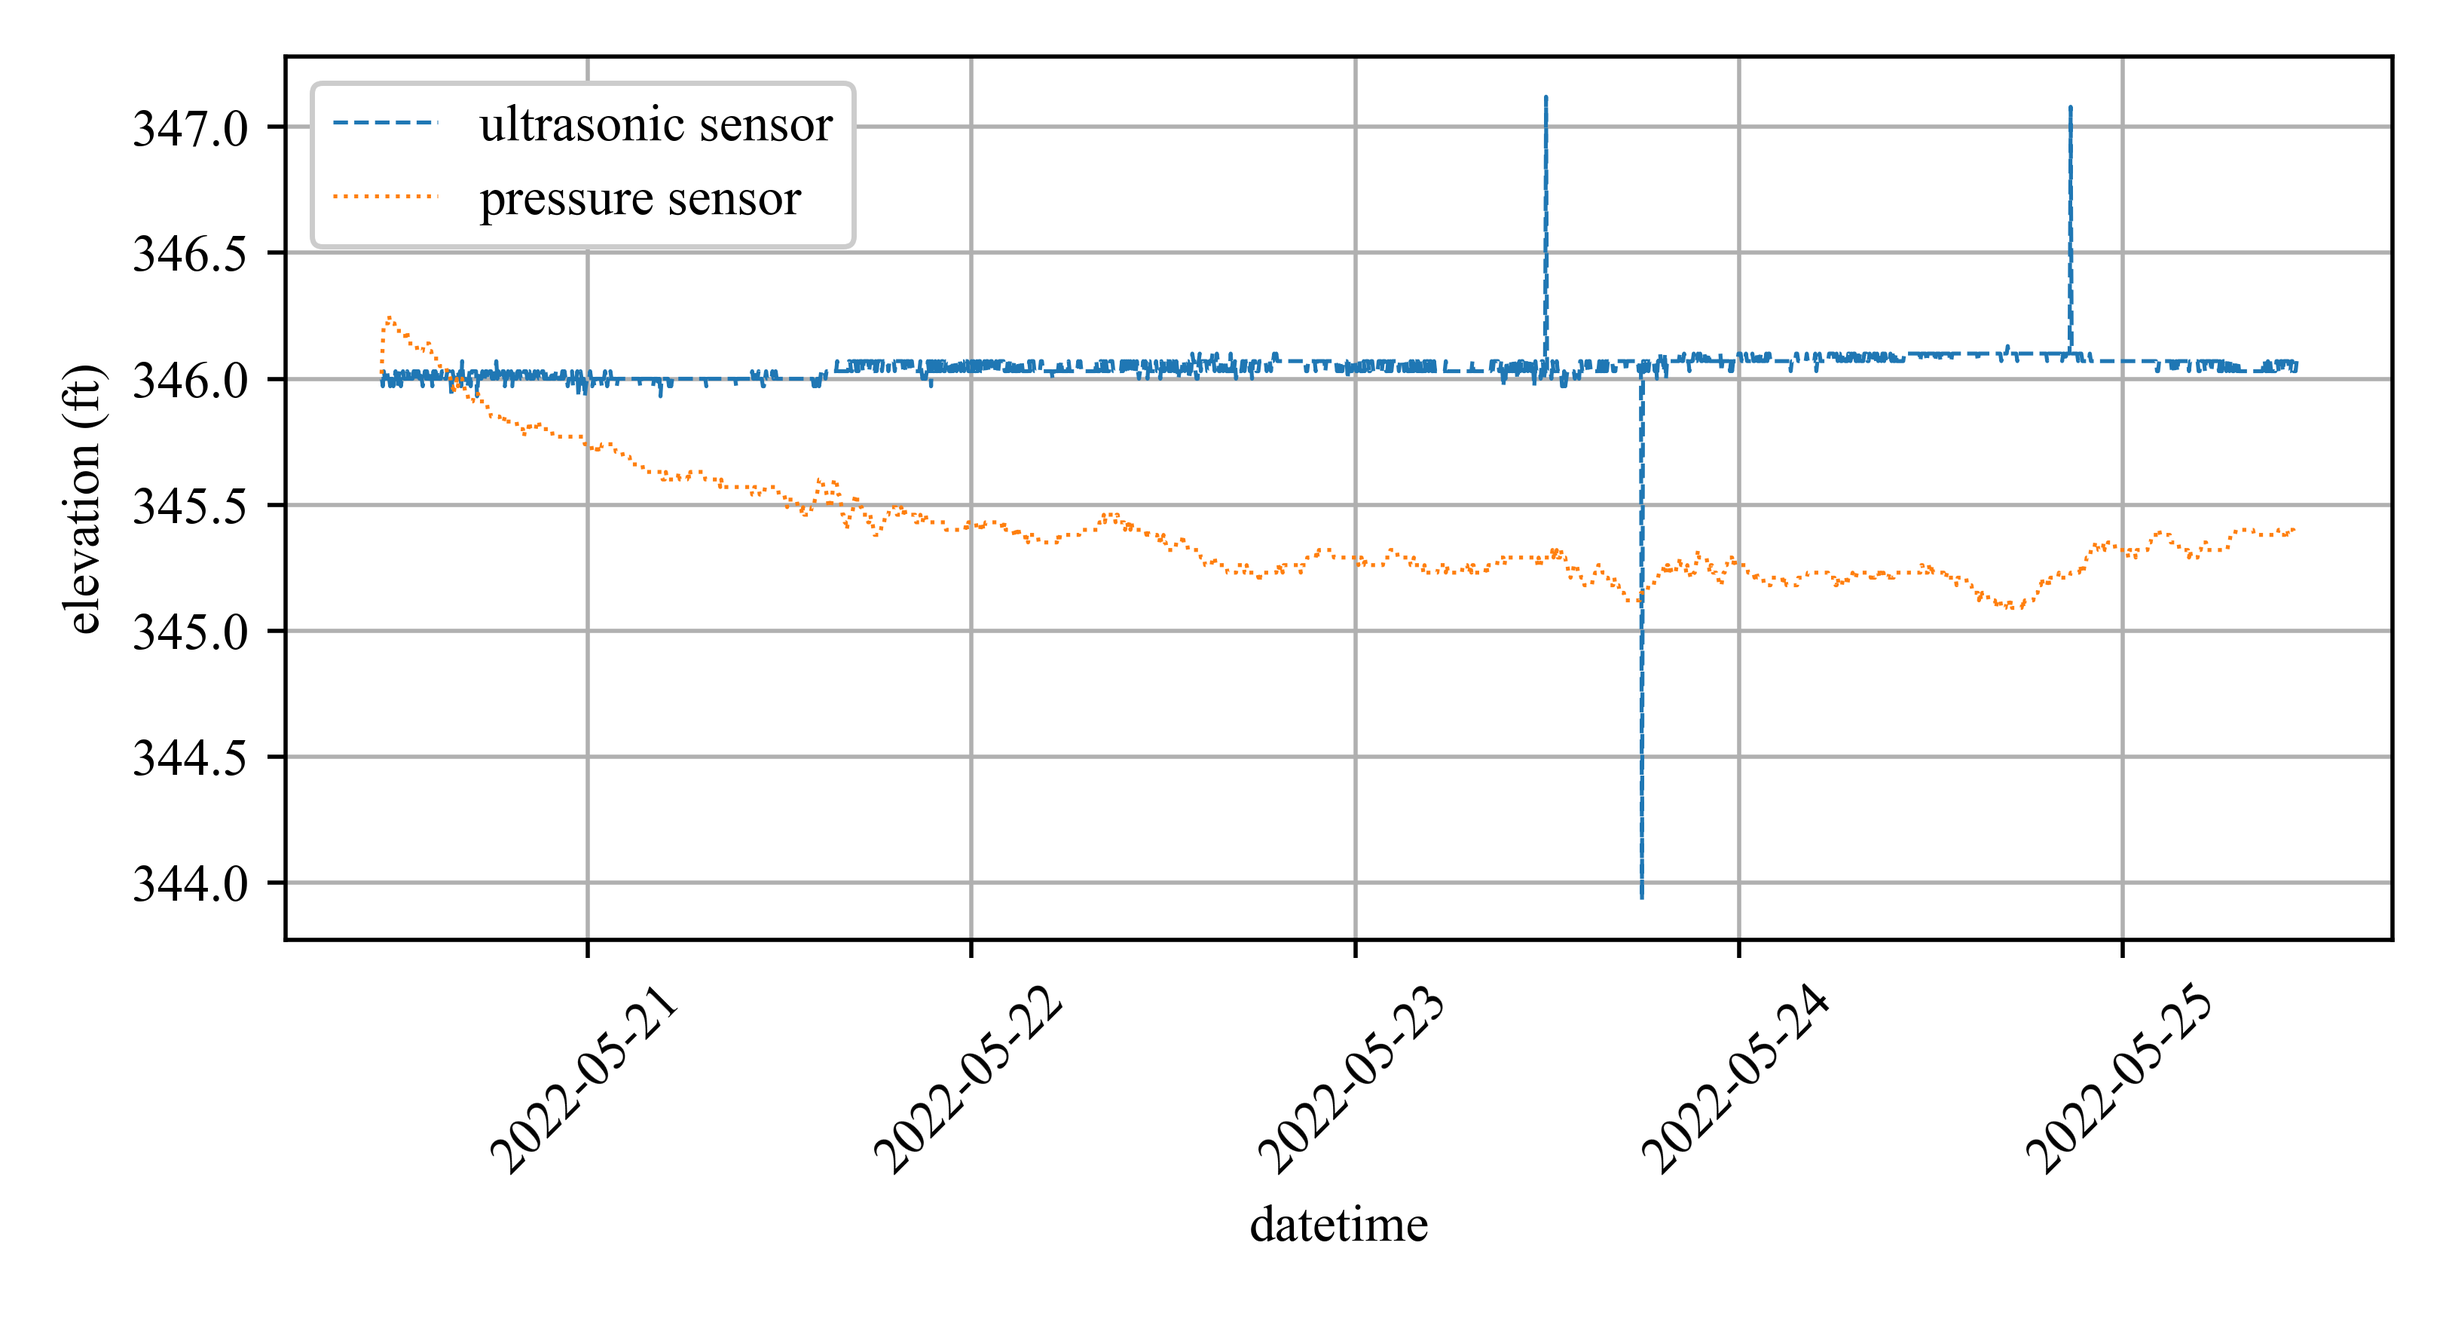
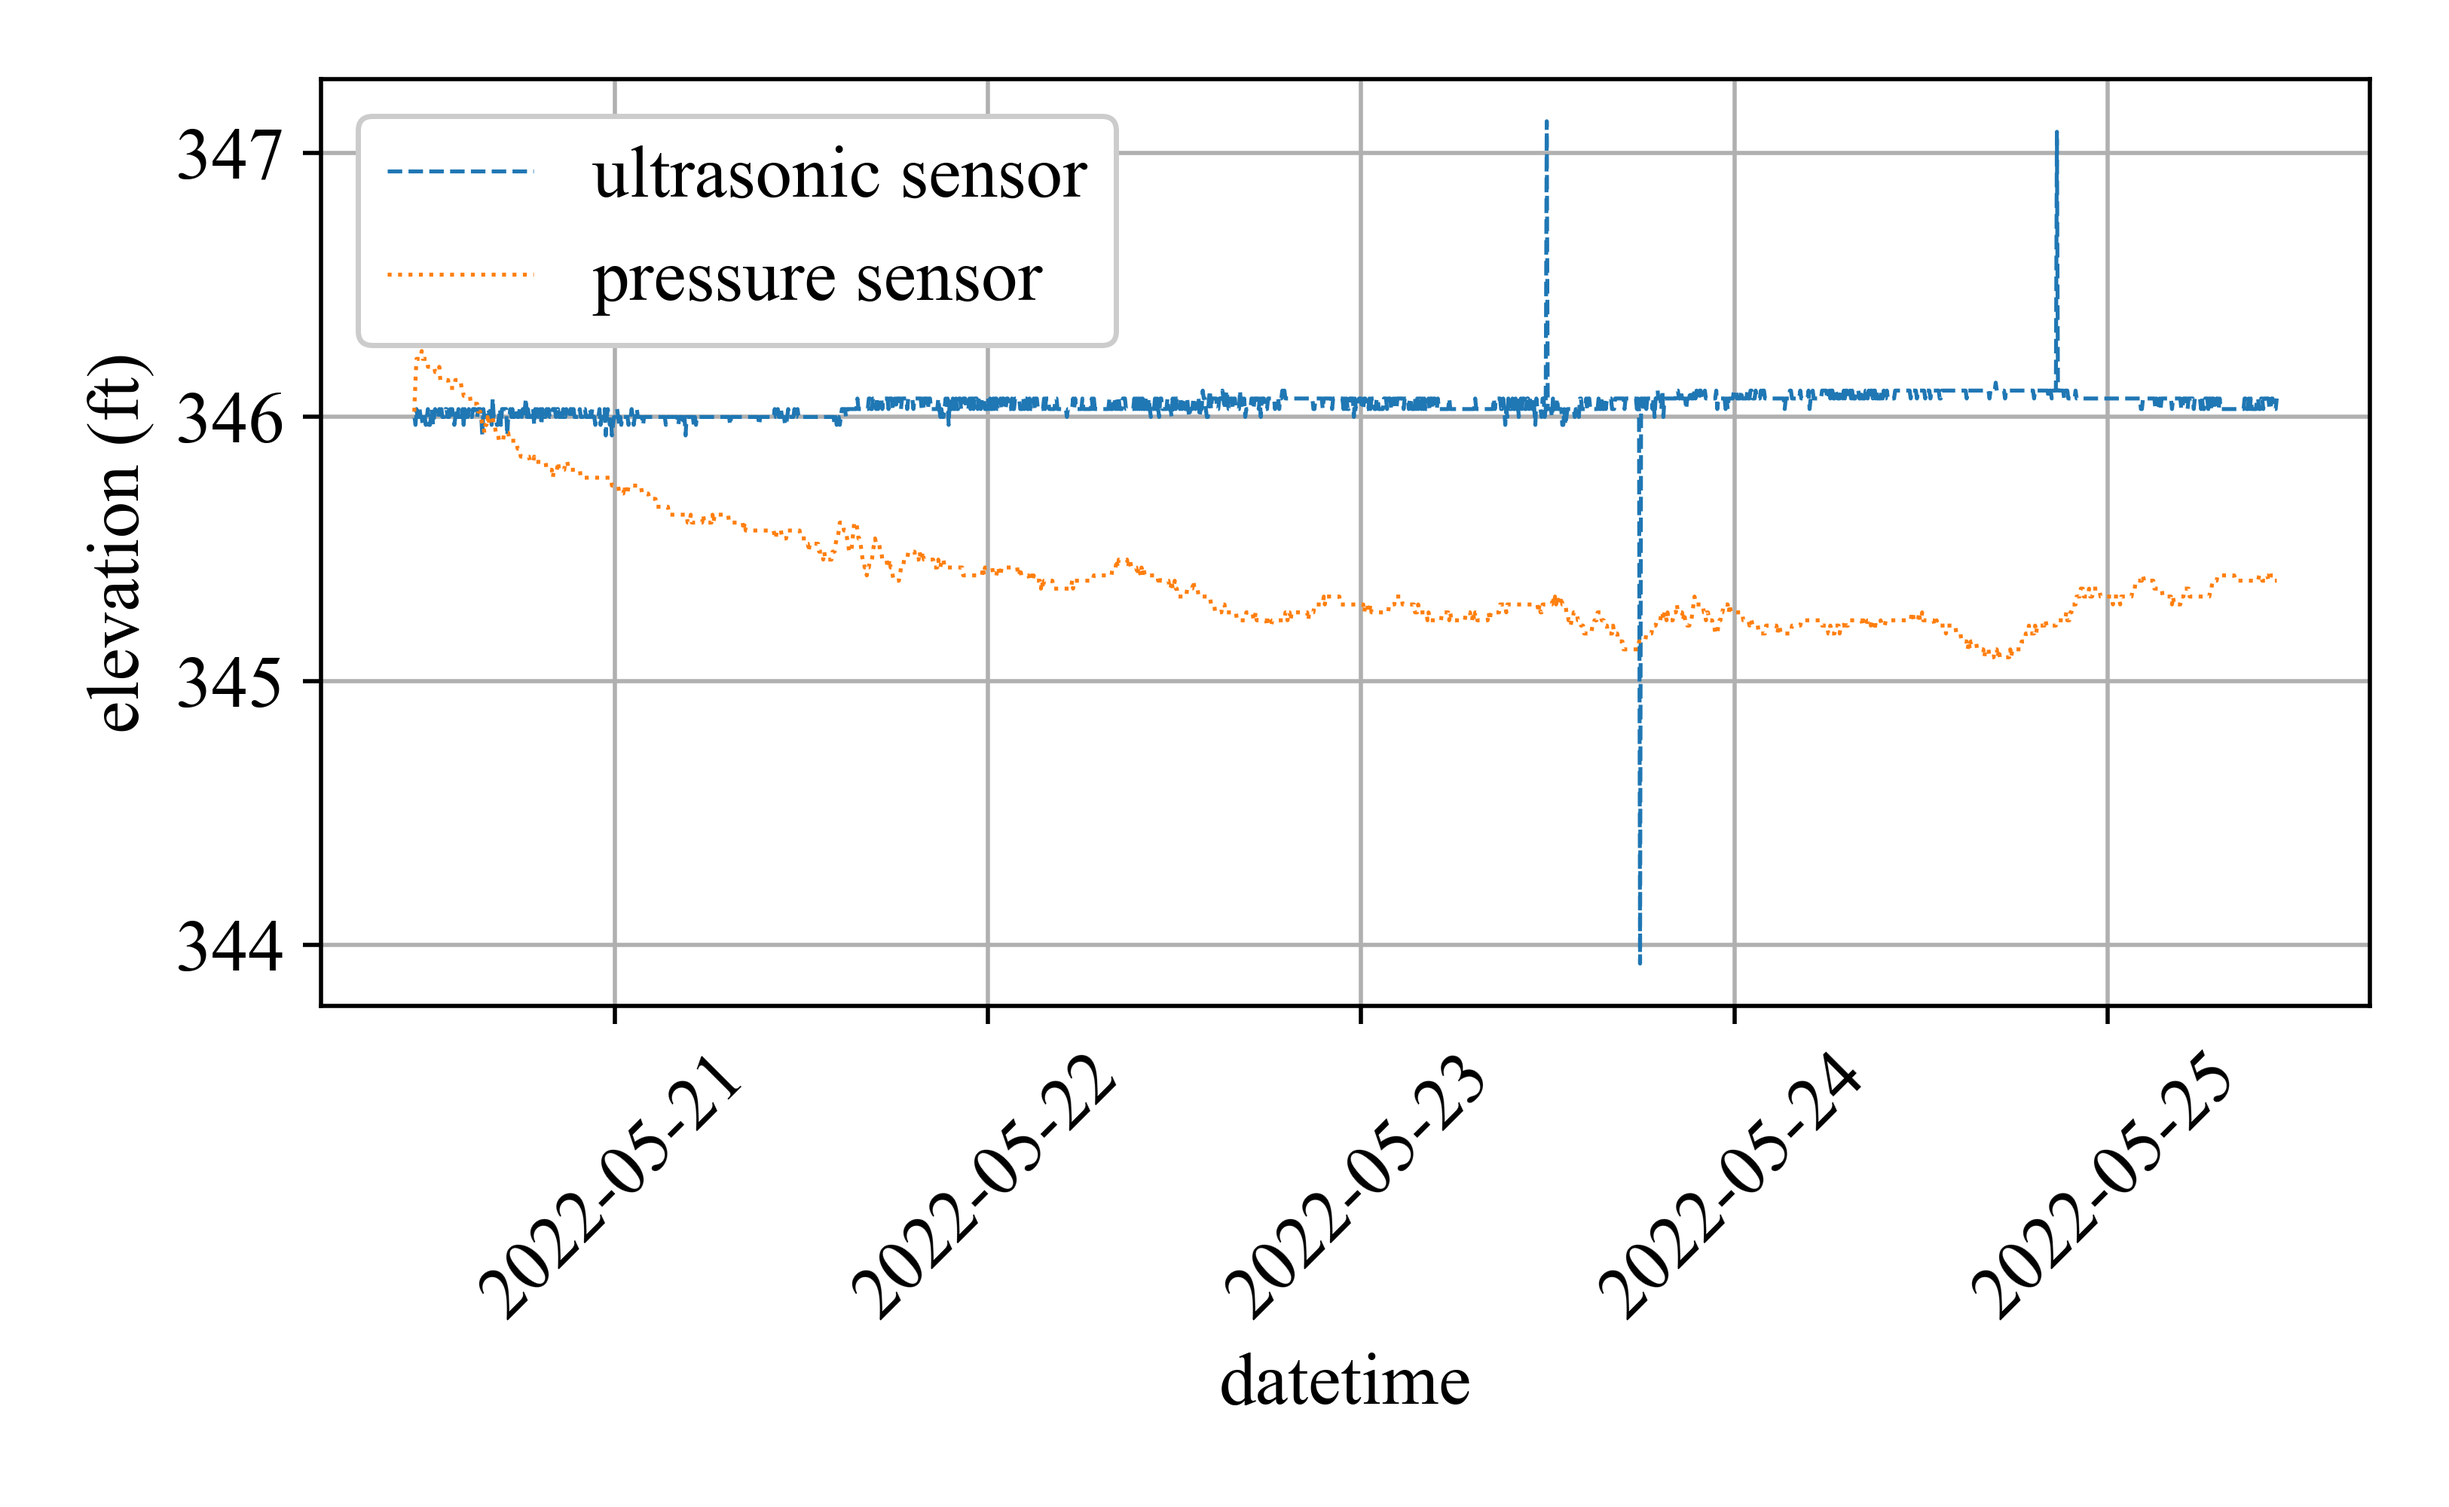
update figure dimensions

Changed region(s): [[0.0311, 0.0309, 0.9945, 0.6789], [0.1243, 0.7097, 0.9634, 0.9566]]

diff --git a/field tests/05_20-05_25/plot_data.py b/field tests/05_20-05_25/plot_data.py
@@ -15,7 +15,7 @@ import numpy as np
 import sys
 np.set_printoptions(threshold=sys.maxsize)
 plt.rcParams["font.family"] = "Times New Roman"
-#mpl.rcParams.update({'font.size': 14})
+mpl.rcParams.update({'font.size': 14})
 
 import IPython as IP
 IP.get_ipython().magic('reset -sf')
@@ -27,7 +27,7 @@ df2 = pd.read_csv('pressure_data.csv', parse_dates={"Datetime" : [3,4]})
 
 
 
-plt.figure(figsize=(6.5,3.5))
+plt.figure(figsize=(6.5,4))
 plt.plot(df1['Datetime'], df1['value'], '--', label='ultrasonic sensor', linewidth=0.75)
 plt.plot(df2['Datetime'], df2['value'], ':', label='pressure sensor', linewidth=0.75)
 plt.legend(framealpha=1)
